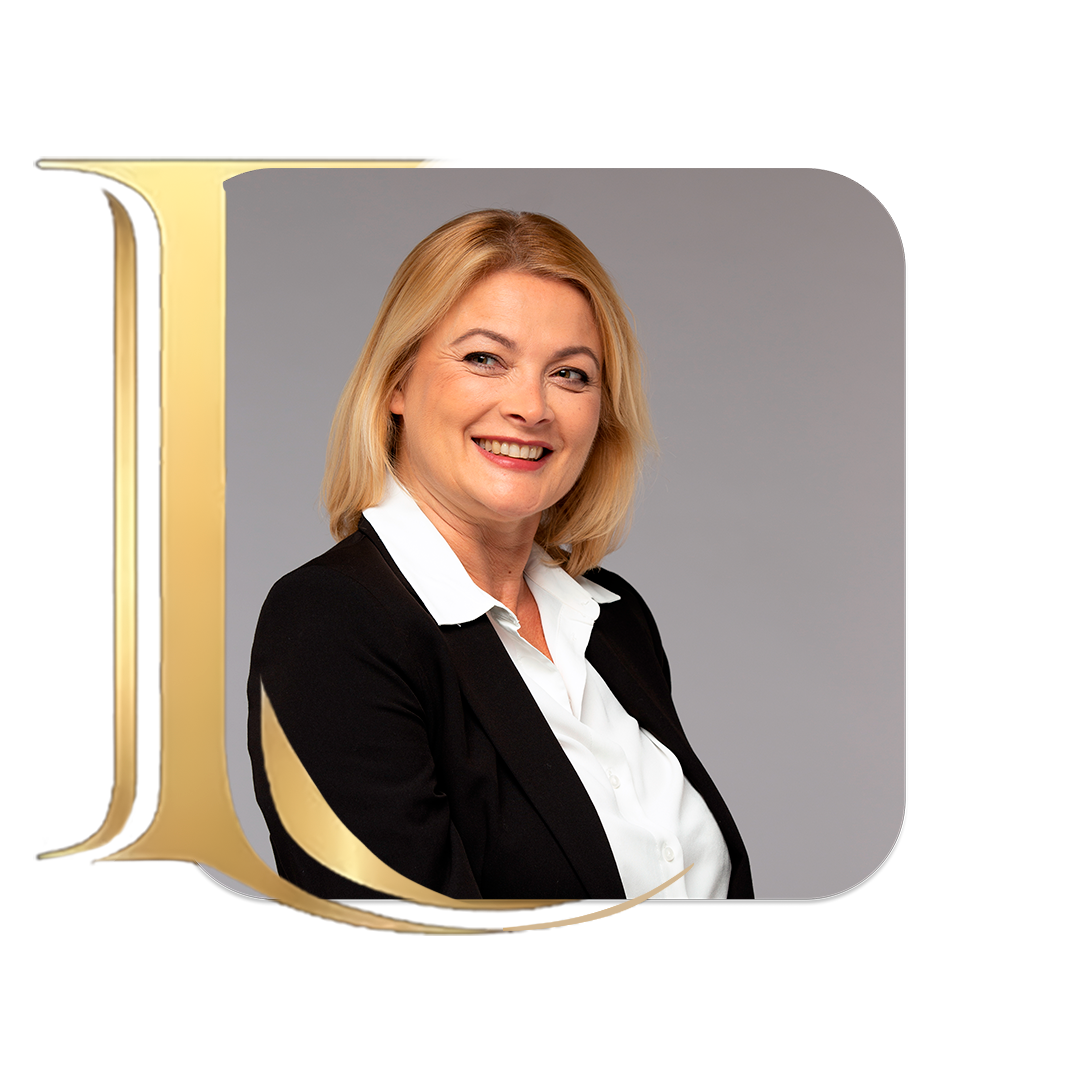
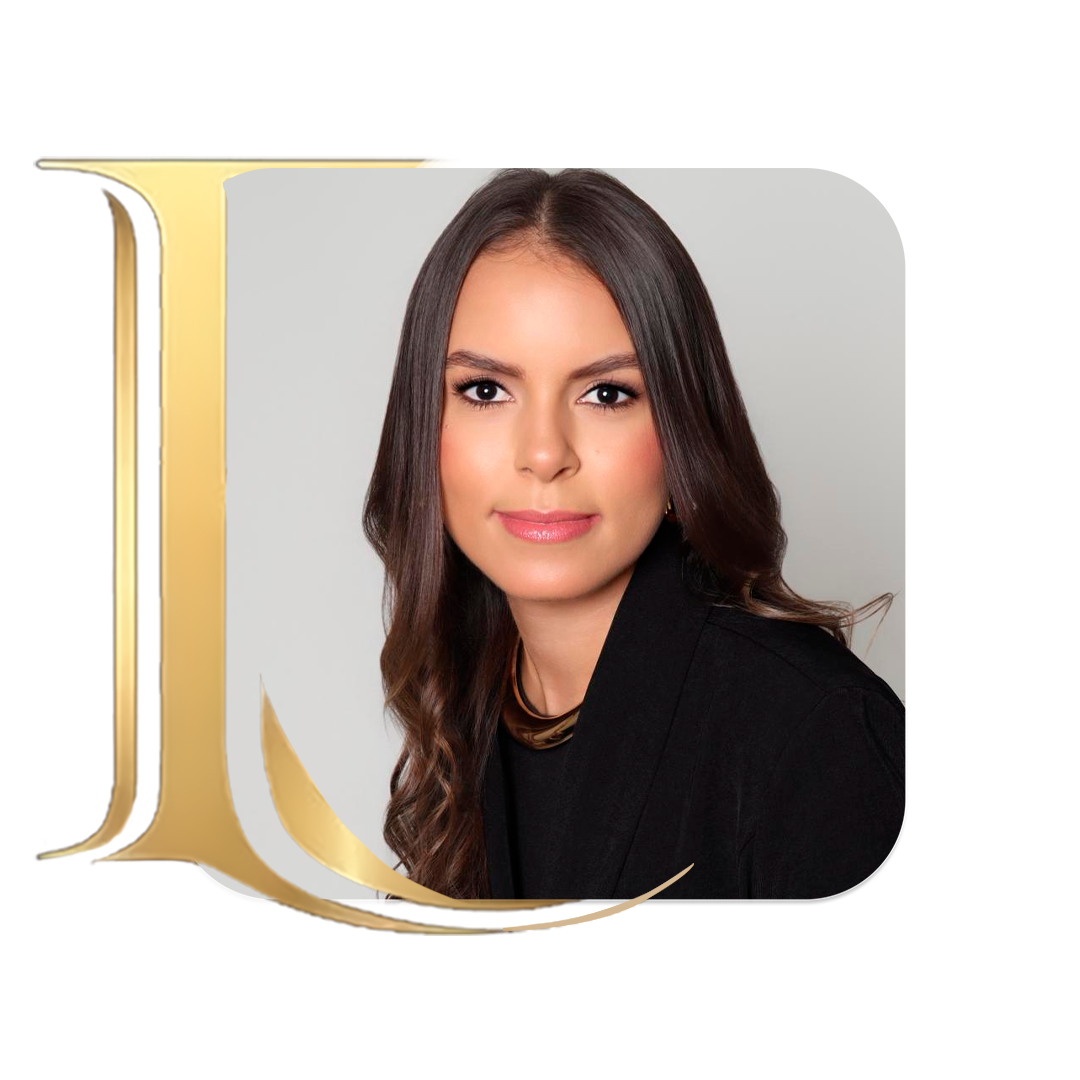
att16

diff --git a/front-end/barreto_e_santana_adv/src/pages/sobre/Sobre.jsx b/front-end/barreto_e_santana_adv/src/pages/sobre/Sobre.jsx
@@ -80,20 +80,18 @@ function Sobre() {
                 <h1>Dra. Anna Clara Barreto</h1>
                 <li>
                   <h3>
-                    Pós-graduada em Direito Civil e Processo Civil, com atuação
-                    estratégica em Direito Empresarial, Civil e Contratual.
-                    Experiência na elaboração, revisão e gestão de contratos,
-                    análise de riscos e prevenção de demandas judiciais.
+                    Advogada e pós-graduanda em Direito Civil e Processo Civil,
+                    com atuação estratégica nas áreas Cível, Empresarial e
+                    Contratual. Conduzo cada caso com técnica, ética e foco em
+                    soluções jurídicas seguras e eficazes.
                   </h3>
                 </li>
                 <li>
                   <h3>
-                    Atuo na estruturação jurídica de operações empresariais,
-                    resolução de conflitos e orientação técnica para negócios
-                    que precisam de segurança, conformidade e tomada de decisão
-                    precisa. Trabalho com enfoque em eficiência, fundamentação
-                    sólida e soluções objetivas, garantindo suporte jurídico
-                    alinhado às necessidades práticas de cada caso.
+                    Atuo na elaboração e revisão de contratos, análise de riscos
+                    e orientação jurídica para pessoas e empresas. Meu trabalho
+                    é pautado em responsabilidade, precisão técnica e atenção às
+                    necessidades práticas de cada cliente.
                   </h3>
                 </li>
               </div>
@@ -115,16 +113,19 @@ function Sobre() {
                 <h1>Dra. Ludineia Santana</h1>
                 <li>
                   <h3>
-                    Especialista em Direito Trabalhista e Previdenciário, com
-                    atuação estratégica, ética e comprometida com resultados e
-                    segurança jurídica.
+                    Ludineia Santana é advogada, especialista em Direito
+                    Trabalhista e Direito Previdenciário. Pós-graduada em
+                    Direito Público e Processo Civil, atua com dedicação na
+                    defesa dos direitos de trabalhadores e segurados da
+                    Previdência Social.
                   </h3>
                 </li>
                 <li>
                   <h3>
-                    Advogada com atuação estratégica nas áreas de sua
-                    especialidade, conduzindo cada caso com técnica, ética e
-                    foco em resultados seguros.
+                    Sua atuação é pautada pela ética, responsabilidade e
+                    constante atualização profissional, buscando oferecer
+                    soluções jurídicas seguras e um atendimento transparente e
+                    comprometido com as necessidades de cada cliente.
                   </h3>
                 </li>
               </div>

diff --git a/front-end/barreto_e_santana_adv/src/assets/components/carroussel/FeedbackCarousel.jsx b/front-end/barreto_e_santana_adv/src/assets/components/carroussel/FeedbackCarousel.jsx
@@ -3,31 +3,33 @@ import "./FeedbackCarousel.scss";
 
 import Img1 from "../../feedbacks/img1.png";
 import Img2 from "../../feedbacks/img2.png";
+import Img3 from "../../feedbacks/img3.jpeg";
+import Img4 from "../../feedbacks/img4.jpeg";
 
 const feedbacks = [
   {
-    name: "Juliana Ferreira Lima",
+    name: "Letícia Quintano",
     role: "Ação contra concessionária",
     text: "Recebi cobranças superiores a dez vezes a média mensal e corria risco de corte no fornecimento de água, mesmo com uma recém-nascida em casa. A equipe atuou com rapidez e conseguimos decisão favorável suspendendo a cobrança e garantindo meus direitos.",
-    avatar: "https://i.pravatar.cc/100?img=32",
+    avatar: Img4,
   },
   {
-    name: "Mariana Souza Ribeiro",
+    name: "Elaine Ambrósio",
     role: "Defesa em Execução",
     text: "Estava prestes a perder meu imóvel em leilão. Com a atuação estratégica do escritório, obtivemos tutela de urgência suspendendo o leilão e a execução principal. Profissionalismo e segurança do início ao fim.",
     avatar: Img2,
   },
   {
-    name: "Rafael Martins Costa",
-    role: "Execução Fiscal",
-    text: "Fui surpreendido com cobrança indevida de FGTS na Justiça do Trabalho. O escritório demonstrou a incompetência absoluta do juízo e conseguimos decisão favorável, garantindo o processamento correto na Justiça Federal.",
+    name: "Wallace Reis",
+    role: "Feedback",
+    text: "Me acompanham desde o início da minha primeira empresa. são muito competentes!. Recomendo.",
     avatar: Img1,
   },
   {
-    name: "Carlos Henrique Almeida",
+    name: "Amanda Ferreira",
     role: "Medida Urgente",
     text: "Precisávamos de uma resposta rápida e técnica. A dedicação da equipe foi essencial para que o juiz reconhecesse nosso direito em sede de tutela de urgência.",
-    avatar: "https://i.pravatar.cc/100?img=12",
+    avatar: Img3,
   },
 ];
 
@@ -89,7 +91,7 @@ export default function FeedbackCarousel() {
 
         <div className="viewport">
           <div className="track" ref={trackRef}>
-            {[...feedbacks, feedbacks[0]].map((item, i) => (
+            {[...feedbacks, ...feedbacks, feedbacks[0]].map((item, i) => (
               <div className="card" key={i}>
                 <div className="header">
                   {/* <div className="avatar-number">

diff --git a/front-end/barreto_e_santana_adv/src/assets/components/footer/Footer.jsx b/front-end/barreto_e_santana_adv/src/assets/components/footer/Footer.jsx
@@ -25,15 +25,24 @@ const Footer = ({ customStyle }) => {
         <div className="Coluna_esq">
           <img src={Logo} alt="Logo Barreto & Santana" />
           <li>
-            <ul href="https://www.instagram.com/andyxdev_/">
+            <a
+              href="https://www.instagram.com/barretoesantanaadv/"
+              target="_blank"
+            >
               <img src={IconeInsta} alt="Instagram" />
-            </ul>
-            <ul>
+            </a>
+            <a
+              href="https://www.instagram.com/barretoesantanaadv/"
+              target="_blank"
+            >
               <img src={IconeLinkedin} alt="LinkedIn" />
-            </ul>
-            <ul>
+            </a>
+            <a
+              href="https://www.instagram.com/barretoesantanaadv/"
+              target="_blank"
+            >
               <img src={IconeFacebook} alt="Facebook" className="icon-face" />
-            </ul>
+            </a>
           </li>
         </div>
         <div className="Coluna_meio">
@@ -139,7 +148,7 @@ const Footer = ({ customStyle }) => {
           </p>
           <p className="direitos_reservados_texto">
             {" "}
-            © 2026 Barreto & Santana Advocacia | todos os direitos reservados
+            © 2026 Barreto & Santana Advocacia | Todos os direitos reservados
           </p>
           <p className="desenvolvido_andy">
             {" "}

diff --git a/front-end/barreto_e_santana_adv/src/assets/components/footer/Footer.scss b/front-end/barreto_e_santana_adv/src/assets/components/footer/Footer.scss
@@ -73,7 +73,7 @@ footer {
           gap: 40px;
         }
 
-        ul {
+        a {
           padding: 0;
           margin: 0;
           cursor: pointer;

diff --git a/front-end/barreto_e_santana_adv/src/index.scss b/front-end/barreto_e_santana_adv/src/index.scss
@@ -18,6 +18,10 @@ body {
   overflow-x: hidden;
 }
 
+html {
+  overflow-x: hidden;
+}
+
 h2,
 h3,
 h4,
